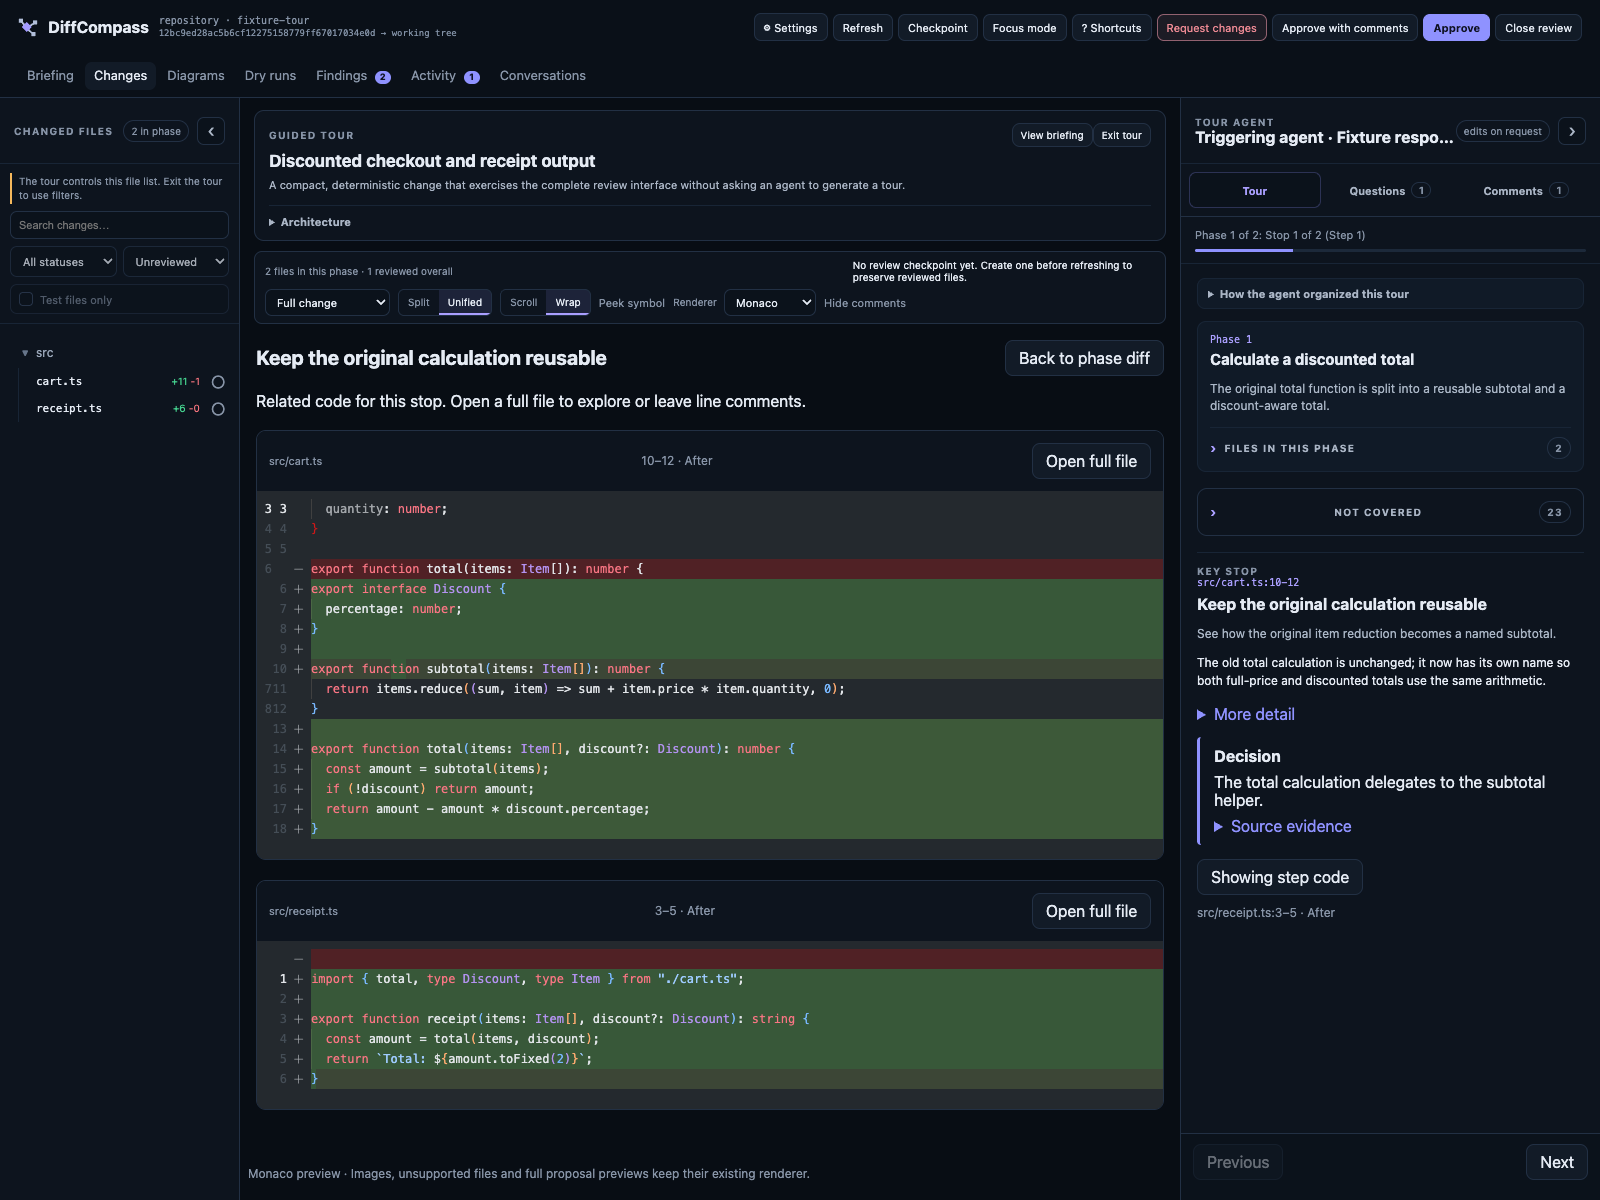
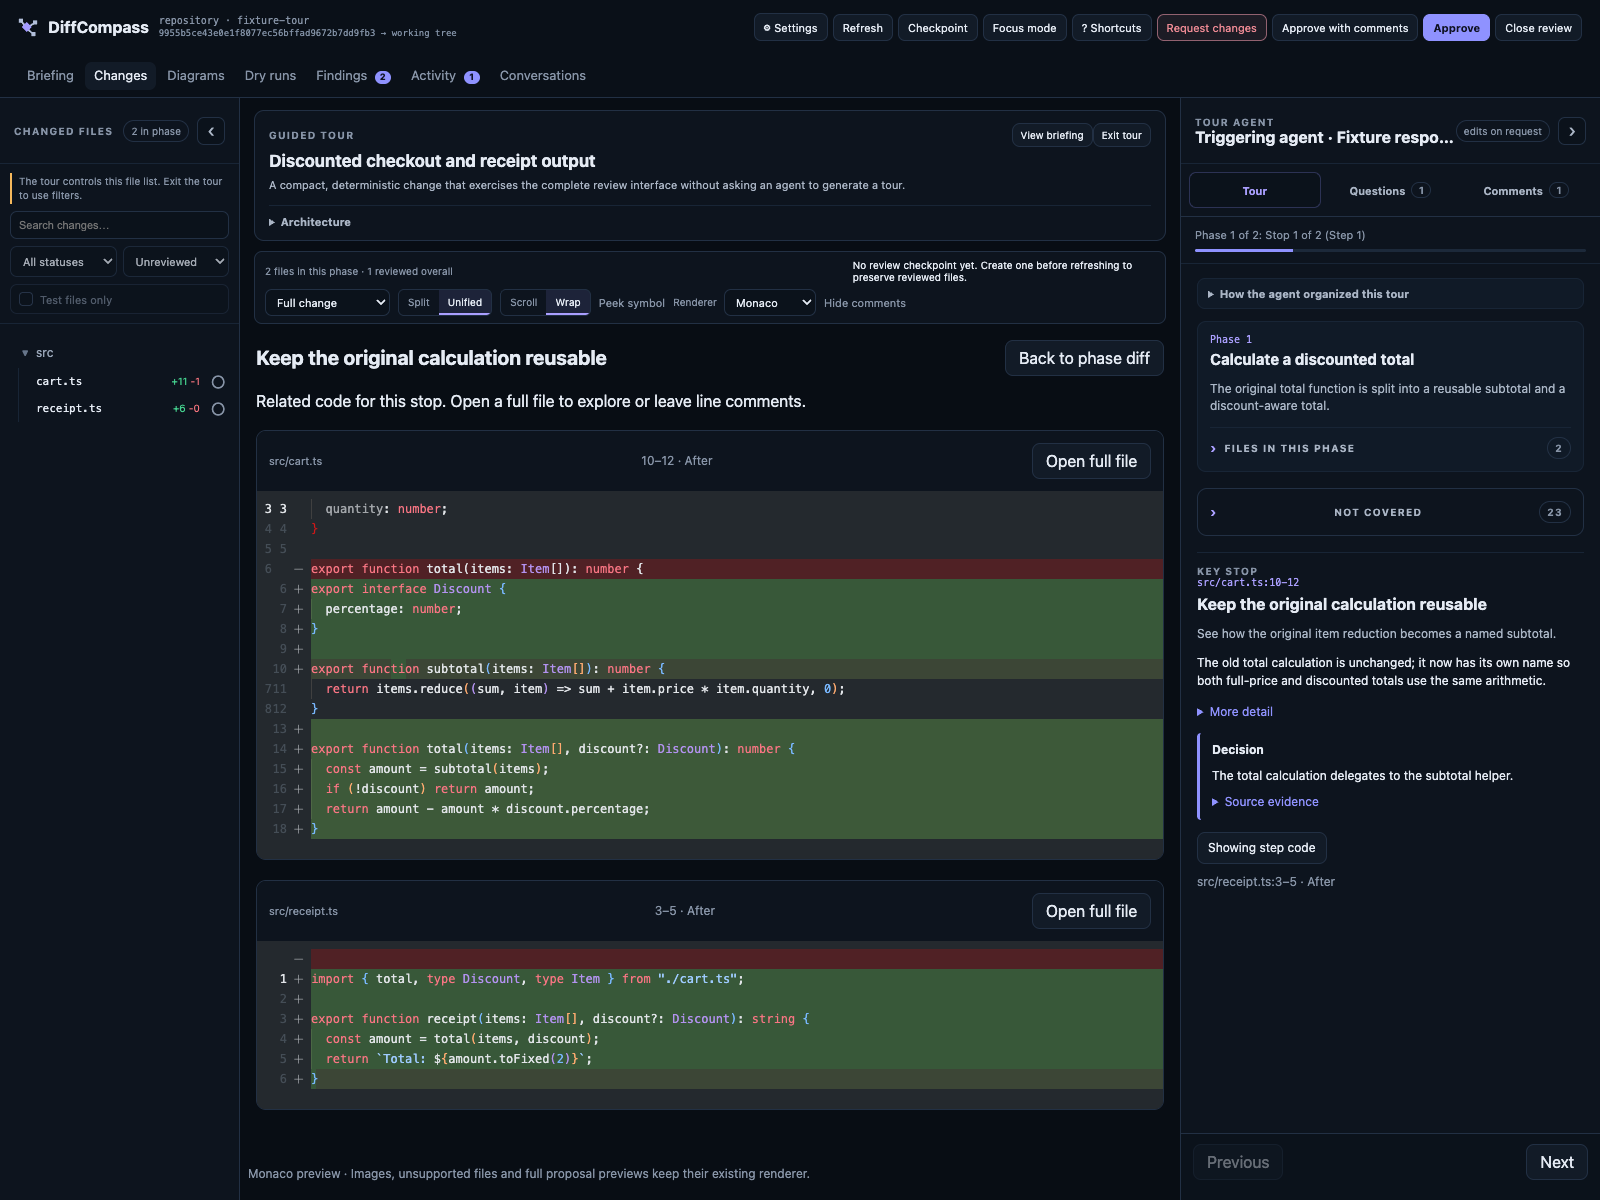
Match guided reading controls to tour text size

Changed region(s): [[0.75, 0.5858, 0.9688, 0.7708]]

diff --git a/public/styles.css b/public/styles.css
@@ -1754,12 +1754,13 @@ button:focus-visible, summary:focus-visible, select:focus-visible, textarea:focu
 .tour-code-group > header .text-button { overflow-wrap: anywhere; text-align: left; }
 .tour-code-group > header > span { color: var(--muted); font-size: 12px; }
 .tour-code-group > p { padding: 0 12px; }
-.tour-step-detail, .tour-reading-note { margin: 14px 0; }
+.tour-step-detail, .tour-reading-note { margin: 12px 0; font-size: 12px; line-height: 1.52; }
 .tour-step-detail > summary, .tour-reading-note summary { cursor: pointer; color: var(--accent); }
-.tour-reading-note { border-left: 3px solid var(--accent); padding: 10px 14px; background: var(--panel); border-radius: 4px; }
+.tour-reading-note { border-left: 3px solid var(--accent); padding: 8px 12px; background: var(--panel); border-radius: 4px; }
 .tour-reading-note p { margin: 8px 0; }
 .tour-reading-note pre { overflow: auto; max-height: 200px; font-size: 12px; }
-.tour-freshness { border-left: 3px solid var(--warning, #e8b35e); padding: 10px; background: var(--panel); }
+.tour-freshness { border-left: 3px solid var(--warning, #e8b35e); padding: 10px; background: var(--panel); font-size: 12px; line-height: 1.52; }
+#tour-step-code { padding: 6px 10px; font-size: 12px; line-height: 1.5; }
 .tour-related { display: grid; gap: 8px; margin-top: 10px; }
 .tour-related button { text-align: left; overflow-wrap: anywhere; font-size: 12px; }
 .tour-coverage { padding: 12px; margin: 16px 0; border: 1px solid var(--border); border-radius: 10px; }
